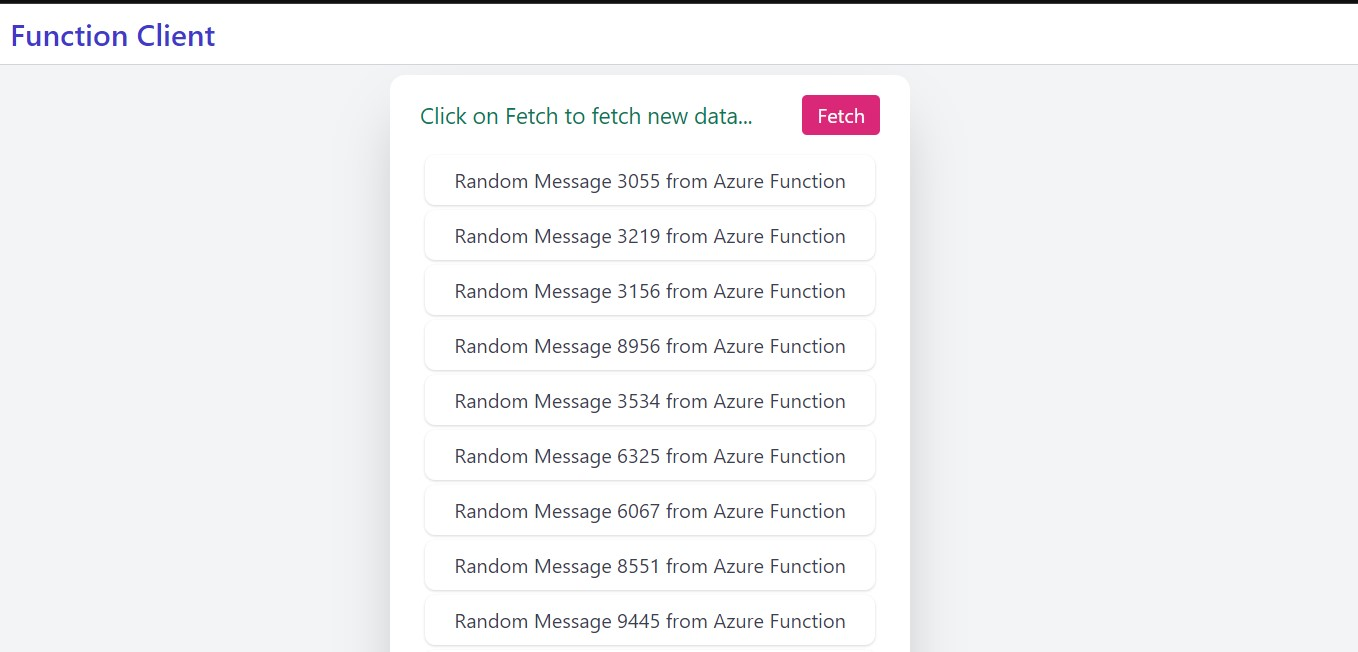
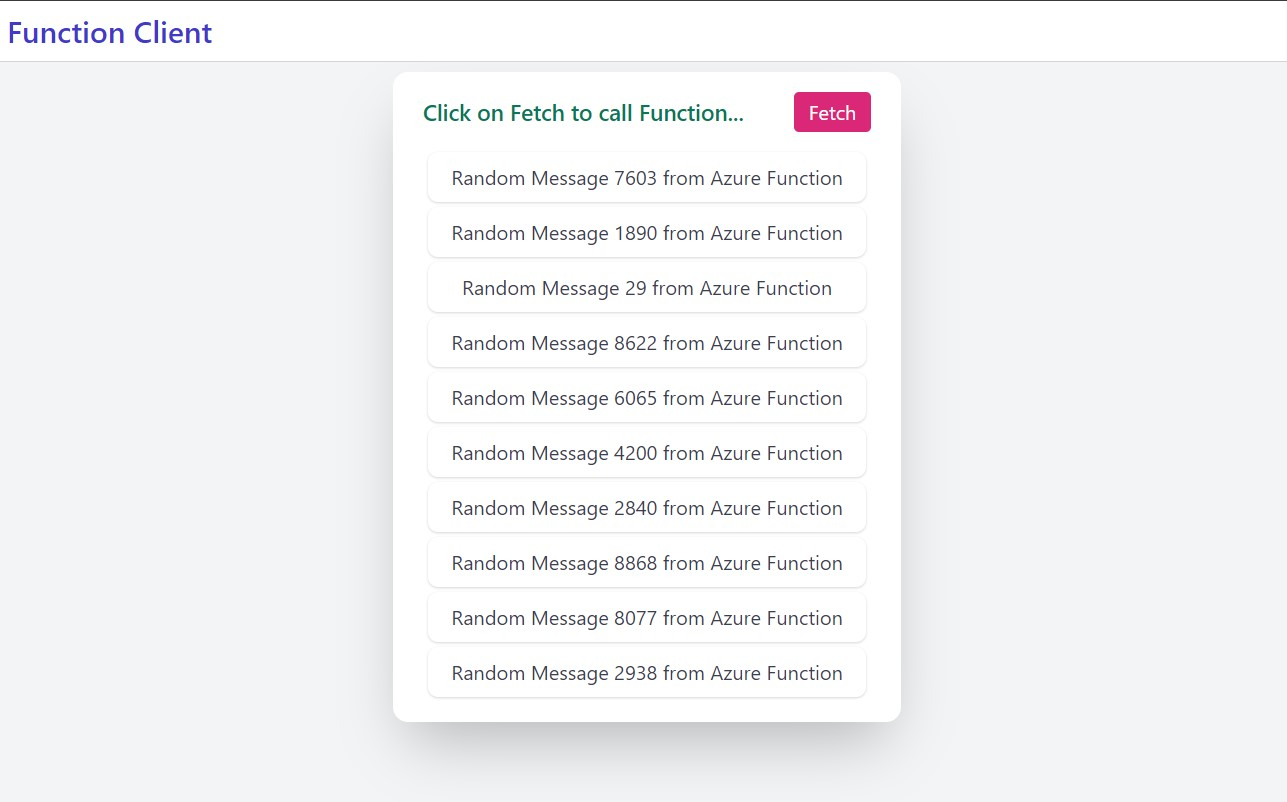
changed click on button text and screenshot

Changed region(s): [[0.2797, 0.092, 0.6838, 0.9816], [0.0, 0.0, 1.0, 0.092]]

diff --git a/Fn101/client/index.html b/Fn101/client/index.html
@@ -30,9 +30,10 @@
         <transition name="slide-down" appear>
         <div class="mx-auto mt-2 bg-white shadow-2xl py-4 px-6 rounded-xl flex flex-col space-y-3">
             <div class="w-full flex space-x-10 items-center">
-              <span class="text-lg text-green-700 font-semibold">Click on Fetch to fetch new data...</span>
+              <span class="text-lg text-green-700 font-semibold">Click on Fetch to call Function...</span>
               <button class="appearance-none outline-none py-1 px-3 rounded bg-pink-600 hover:opacity-90
-                  focus:ring-2 focus:ring-offset-2 focus:ring-pink-400 focus:ring-offset-pink-100 text-white"
+                  focus:ring-2 focus:ring-offset-2 focus:ring-pink-400 focus:ring-offset-pink-100 text-white
+                  transition duration-300"
                    @click.stop="fetchData">
                    Fetch
                 </button>
